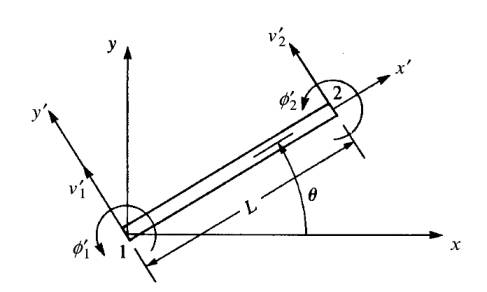
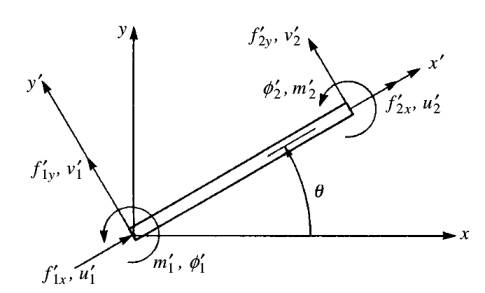
-

Changed region(s): [[0.0619, 0.0925, 0.9897, 0.9863], [0.0619, 0.5548, 0.1237, 0.6164], [0.7423, 0.524, 0.7732, 0.5548]]

diff --git a/phy/phy_020_strs_06/phy_020_strs_06.tex b/phy/phy_020_strs_06/phy_020_strs_06.tex
@@ -84,41 +84,58 @@ u_1 \\ v_1 \\ u_2 \\ v_2
 \end{array}\right]
 $$
 
-Şimdi biraz farklı bir kirişe bakalım, 
+Dönüş mekaniğini gördük, şimdi önceki derste işlenen kiriş parçasına hem
+eksenel dinamiği hem de biraz önce gördüğümüz dönüş mantığını ekleyelim.
+Altta görülen kiriş parçasının hareketlerini hesaplayabilmek istiyoruz yani,
 
 \includegraphics[width=15em]{phy_020_strs_06_02.jpg}
 
-Bu parçanın eksenel yönde hareketi kısıtlanmış ise, $u_1,u_2$ yok sayılmalı,
-bu durumda bu iki değişken takip edilmiyor, o zaman (2) dönüş matrisinin
-sadece ikinci satırı kullanılacak, bunu tüm $u_1,v_1,\phi_1$ ve $u_2,v_2,\phi_2$
-sistemine uygulayınca [1, sf. 240]
+Önceki dersten hatırlarsak eksene dik parçaların mekaniği alttaki formülle
+gösterilmişti,
 
 $$
 \left[\begin{array}{c}
-v'_1 \\ \phi'_1 \\ v'_2 \\ \phi'_2
+f_{1y} \\ m_1 \\ f_{2y} \\ m_2
+\end{array}\right] =
+\frac{EI}{L^3}
+\left[\begin{array}{cccc}
+12 & 6L & -12 & 6L \\
+6L & 4L^2 & -6L & -6L \\
+-12 & -6L & 12 & -6L \\
+6L & 2L^2 & -6L & 4L^2
+\end{array}\right]
+\left[\begin{array}{ccc}
+v_1 \\ \phi_1 \\ v_2 \\ \phi_2
+\end{array}\right]
+$$
+
+Bu formüle (1)'deki eksenel mantığı eklersek, yerel kordinatlarda
+
+$$
+\left[\begin{array}{c}
+f'_{1x} \\ f'_{1y} \\ m'_1 \\ f'_{2x} \\ f'_{2y} \\ m'_2
 \end{array}\right] =
 \left[\begin{array}{cccccc}
--S & C & 0 & 0 & 0 & 0 \\
-0 & 0 & 1 & 0 & 0 & 0 \\
-0 & 0 & 0 & -S & C & 0 \\
-0 & 0 & 0 & 0 & 0 & 1
+C_1 & 0 & 0 & -C_1 & 0 & 0 \\
+0 & 12C_2 & 6 C_2 L & 0 & -12 C_2 & 6 C_2 L \\
+0 & 6C_2 L & 4 C_2 L^2 & 0 & -6 C_2 L & 2 C_2 L^2 \\
+-C_1 & 0 & 0 & C_1 & 0 & 0 \\
+0 & -12C_2 & -6 C_2 L & 0 & 12 C_2 & -6 C_2 L \\
+0 & 6 C_2 L & 2 C_2 L^2 & 0 & -6C_2 L & 4C_2 L^2
 \end{array}\right]
 \left[\begin{array}{c}
-u_1 \\ v_1 \\ \phi_1 \\ u_2 \\ v_2 \\ \phi_2
+u'_1 \\ v'_1 \\ \phi'_1 \\ u'_2 \\ v'_2 \\ \phi'_2
 \end{array}\right]
 $$
 
-
-
-
-
-
+elde edilir, ki $C_1 = \dfrac{AE}{L}$ ve $C_2 = \dfrac{EI}{L^3}$
+olmak üzere. 
 
 
 [devam edecek]
 
 Kaynaklar
 
-[1] Logan, {\em A First Course in the Finite Element Method}
+[1] Logan, {\em A First Course in the Finite Element Method, 6th Ed}
 
 \end{document}
